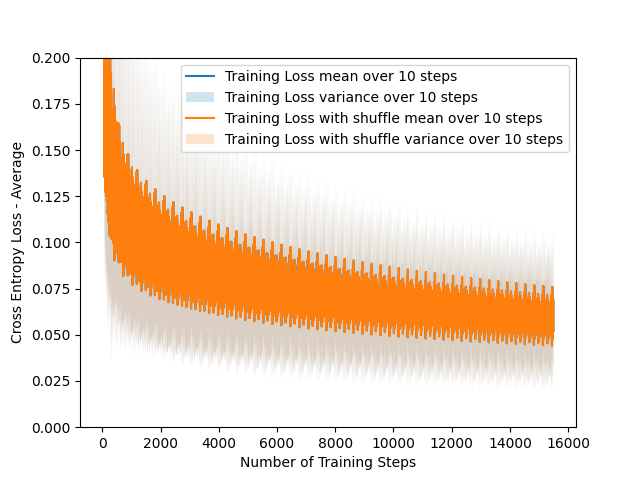
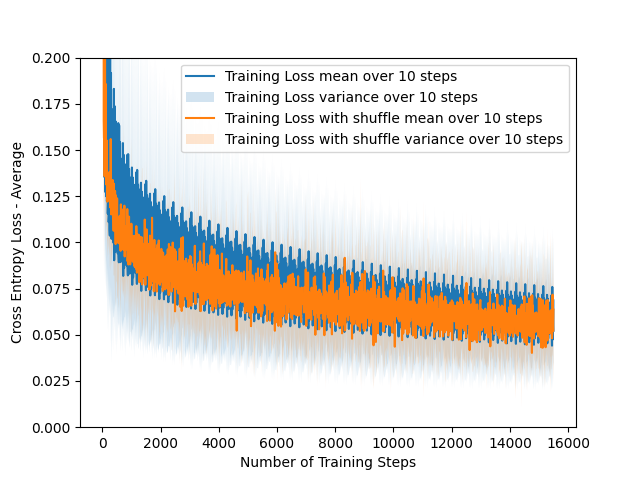
Done 2e

Changed region(s): [[0.1562, 0.125, 0.875, 0.7812]]

diff --git a/assignment1/trainer.py b/assignment1/trainer.py
@@ -97,7 +97,7 @@ class BaseTrainer:
                     #print("Previous validation loss: ", prev_val_loss)
                     
                     if val_loss < prev_val_loss - tolerance:
-                        print(counter)
+                        #print(counter)
                         counter = 0
                         
                     else:

diff --git a/assignment1/utils.py b/assignment1/utils.py
@@ -25,6 +25,8 @@ def batch_loader(
     indices = list(range(len(X)))
 
     # TODO (task 2e) implement dataset shuffling here.
+    if shuffle:
+        np.random.shuffle(indices)
 
     for i in range(num_batches):
         # select a set of indices for each batch of samples

diff --git a/assignment1/task2.py b/assignment1/task2.py
@@ -74,7 +74,7 @@ class LogisticTrainer(BaseTrainer):
 
 def main():
     # hyperparameters DO NOT CHANGE IF NOT SPECIFIED IN ASSIGNMENT TEXT
-    num_epochs = 1000
+    num_epochs = 500
     learning_rate = 0.05
     batch_size = 128
     shuffle_dataset = False
